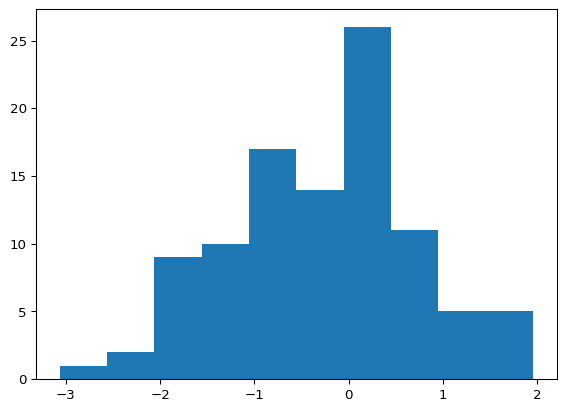
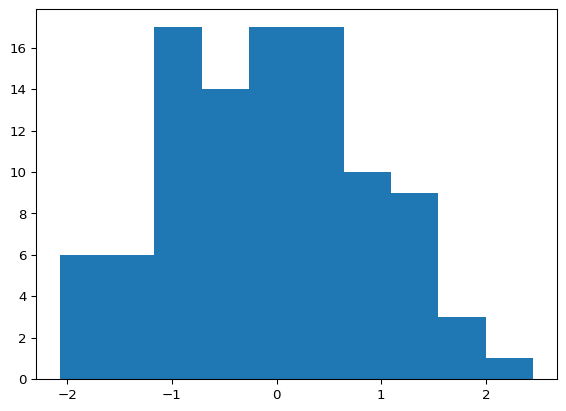
Built site for gh-pages

diff --git a/resume.html b/resume.html
@@ -212,6 +212,7 @@ ul.task-list li input[type="checkbox"] {
   <li><a href="#beats-by-dre-consumer-insights-data-analyst-internship" id="toc-beats-by-dre-consumer-insights-data-analyst-internship" class="nav-link" data-scroll-target="#beats-by-dre-consumer-insights-data-analyst-internship">Beats by Dre (Consumer Insights &amp; Data Analyst Internship)</a></li>
   <li><a href="#success-chess-school-chess-instructor" id="toc-success-chess-school-chess-instructor" class="nav-link" data-scroll-target="#success-chess-school-chess-instructor">Success Chess School (Chess Instructor)</a></li>
   </ul></li>
+  <li><a href="#giraffe-learning-center-math-chess-instructor" id="toc-giraffe-learning-center-math-chess-instructor" class="nav-link" data-scroll-target="#giraffe-learning-center-math-chess-instructor">Giraffe Learning Center (Math &amp; Chess Instructor)</a></li>
   <li><a href="#volunteer-leadership" id="toc-volunteer-leadership" class="nav-link" data-scroll-target="#volunteer-leadership">Volunteer &amp; Leadership</a>
   <ul class="collapse">
   <li><a href="#american-allegiance-of-education-co-founder" id="toc-american-allegiance-of-education-co-founder" class="nav-link" data-scroll-target="#american-allegiance-of-education-co-founder">American Allegiance of Education (Co-Founder)</a></li>
@@ -377,10 +378,23 @@ September 2021 – May 2023 | Fremont, CA
 </ul>
 </section>
 </section>
+<section id="giraffe-learning-center-math-chess-instructor" class="level3">
+<h3 class="anchored" data-anchor-id="giraffe-learning-center-math-chess-instructor">Giraffe Learning Center (Math &amp; Chess Instructor)</h3>
+<p class="date">
+June 2023 – June 2024 | Fremont, CA
+</p>
+<ul>
+<li>Taught middle school students Prealgebra–Geometry at Giraffe Learning Center’s summer and after-school programs: developed comprehensive LaTeX-based homework assignments and exams to reinforce core concepts and assess learning outcomes.</li>
+<li>Coached chess: developed and delivered a structured curriculum covering opening principles, tactics, and endgame techniques; provided one-on-one game analysis and feedback; organized skill-matched tournaments.</li>
+<li>Administered differentiated assessments and progress reports: analyzed results to tailor individualized learning plans and improve student outcomes.</li>
+</ul>
+</section></main></div>
+
+
 <section id="volunteer-leadership" class="level2 timeline volunteer">
-<h2 class="anchored" data-anchor-id="volunteer-leadership">Volunteer &amp; Leadership</h2>
+<h2 data-anchor-id="volunteer-leadership">Volunteer &amp; Leadership</h2>
 <section id="american-allegiance-of-education-co-founder" class="level3 timeline-item">
-<h3 class="anchored" data-anchor-id="american-allegiance-of-education-co-founder">American Allegiance of Education (Co-Founder)</h3>
+<h3 data-anchor-id="american-allegiance-of-education-co-founder">American Allegiance of Education (Co-Founder)</h3>
 <p class="date">
 May 2023 – October 2024 | Fremont, CA
 </p>
@@ -398,7 +412,7 @@ May 2023 – October 2024 | Fremont, CA
 </ul>
 </section>
 <section id="washington-high-school-math-center-volunteer" class="level3 timeline-item">
-<h3 class="anchored" data-anchor-id="washington-high-school-math-center-volunteer">Washington High School (Math Center Volunteer)</h3>
+<h3 data-anchor-id="washington-high-school-math-center-volunteer">Washington High School (Math Center Volunteer)</h3>
 <p class="date">
 August 2018 – June 2021 | Fremont CA
 </p>
@@ -411,7 +425,7 @@ August 2018 – June 2021 | Fremont CA
 </section>
 </section>
 <section id="skills-additional-info" class="level2 timeline skills">
-<h2 class="anchored" data-anchor-id="skills-additional-info">Skills &amp; Additional Info</h2>
+<h2 data-anchor-id="skills-additional-info">Skills &amp; Additional Info</h2>
 <div class="timeline-item">
 <ul>
 <li><strong>Languages:</strong>
@@ -431,7 +445,7 @@ August 2018 – June 2021 | Fremont CA
 
 
 
-</main> <!-- /main -->
+ <!-- /main -->
 <script id="quarto-html-after-body" type="application/javascript">
   window.document.addEventListener("DOMContentLoaded", function (event) {
     const icon = "";
@@ -831,7 +845,7 @@ August 2018 – June 2021 | Fremont CA
     }
   });
   </script>
-</div> <!-- /content -->
+ <!-- /content -->
 
 
 

diff --git a/units/unit1.html b/units/unit1.html
@@ -193,7 +193,7 @@ $$
 <p>This is an example of using qmd as the source document.</p>
 <section id="evaluated-python-code-chunk-with-a-plot" class="level2">
 <h2 class="anchored" data-anchor-id="evaluated-python-code-chunk-with-a-plot">Evaluated Python code chunk, with a plot</h2>
-<div id="067dd56e" class="cell" data-execution_count="1">
+<div id="c683534d" class="cell" data-execution_count="1">
 <details open="" class="code-fold">
 <summary>Code</summary>
 <div class="sourceCode cell-code" id="cb1"><pre class="sourceCode python code-with-copy"><code class="sourceCode python"><span id="cb1-1"><a href="#cb1-1" aria-hidden="true" tabindex="-1"></a><span class="im">import</span> numpy <span class="im">as</span> np</span>
@@ -211,7 +211,7 @@ $$
 </div>
 </div>
 <div class="cell-output cell-output-display" data-execution_count="1">
-<pre><code>np.float64(-0.2714982299282732)</code></pre>
+<pre><code>np.float64(-0.040706893731705544)</code></pre>
 </div>
 </div>
 </section>
@@ -273,7 +273,7 @@ Tip with Title
 </div>
 <div id="tabset-1-2" class="tab-pane" role="tabpanel" aria-labelledby="tabset-1-2-tab">
 <p>This code is executed.</p>
-<div id="279c4caa" class="cell" data-execution_count="2">
+<div id="f2b99e7a" class="cell" data-execution_count="2">
 <details open="" class="code-fold">
 <summary>Code</summary>
 <div class="sourceCode cell-code" id="cb4"><pre class="sourceCode python code-with-copy"><code class="sourceCode python"><span id="cb4-1"><a href="#cb4-1" aria-hidden="true" tabindex="-1"></a><span class="kw">def</span> fizz_buzz(num):</span>

diff --git a/units/unit3.html b/units/unit3.html
@@ -190,7 +190,7 @@ $$
 <p>This is an example of using qmd as the source document with pdf as one target. I’ve taken out the qmd stuff that doesn’t seem to render to pdf.</p>
 <section id="evaluated-python-code-chunk-with-a-plot" class="level2">
 <h2 class="anchored" data-anchor-id="evaluated-python-code-chunk-with-a-plot">Evaluated Python code chunk, with a plot</h2>
-<div id="921dcce8" class="cell" data-execution_count="1">
+<div id="fbca5a7c" class="cell" data-execution_count="1">
 <details open="" class="code-fold">
 <summary>Code</summary>
 <div class="sourceCode cell-code" id="cb1"><pre class="sourceCode python code-with-copy"><code class="sourceCode python"><span id="cb1-1"><a href="#cb1-1" aria-hidden="true" tabindex="-1"></a><span class="im">import</span> numpy <span class="im">as</span> np</span>
@@ -208,7 +208,7 @@ $$
 </div>
 </div>
 <div class="cell-output cell-output-display" data-execution_count="1">
-<pre><code>np.float64(-0.06741085321819586)</code></pre>
+<pre><code>np.float64(-0.001071629413057708)</code></pre>
 </div>
 </div>
 </section>
